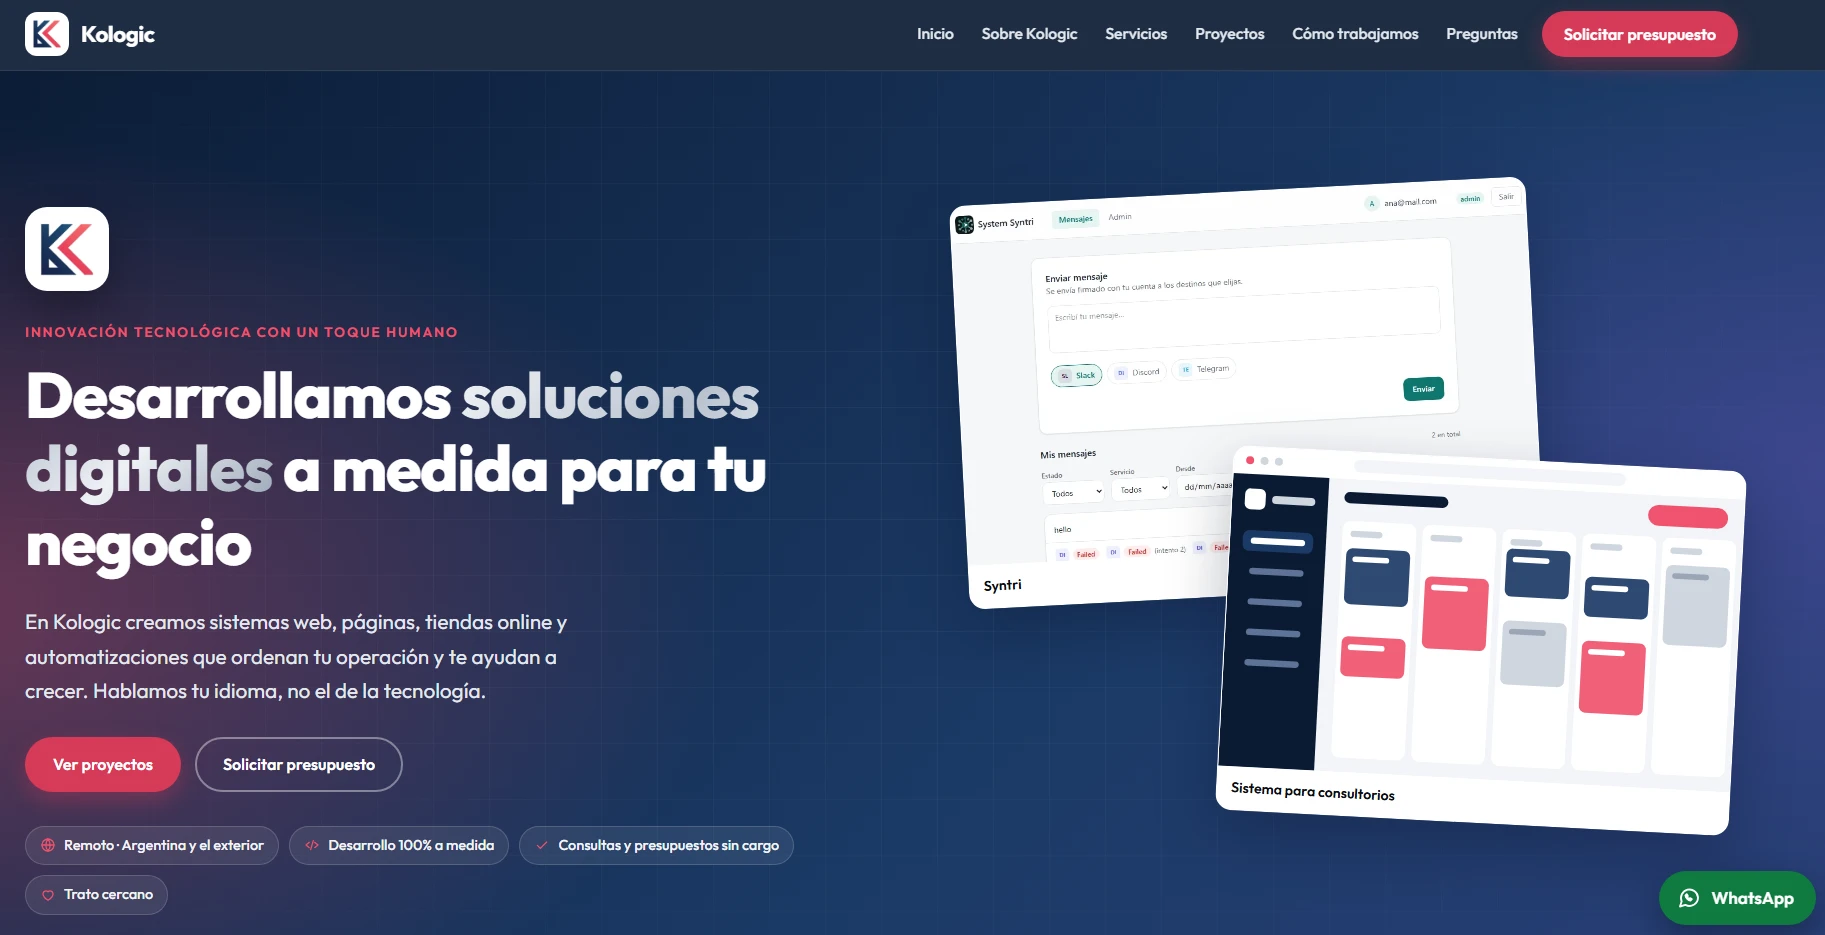
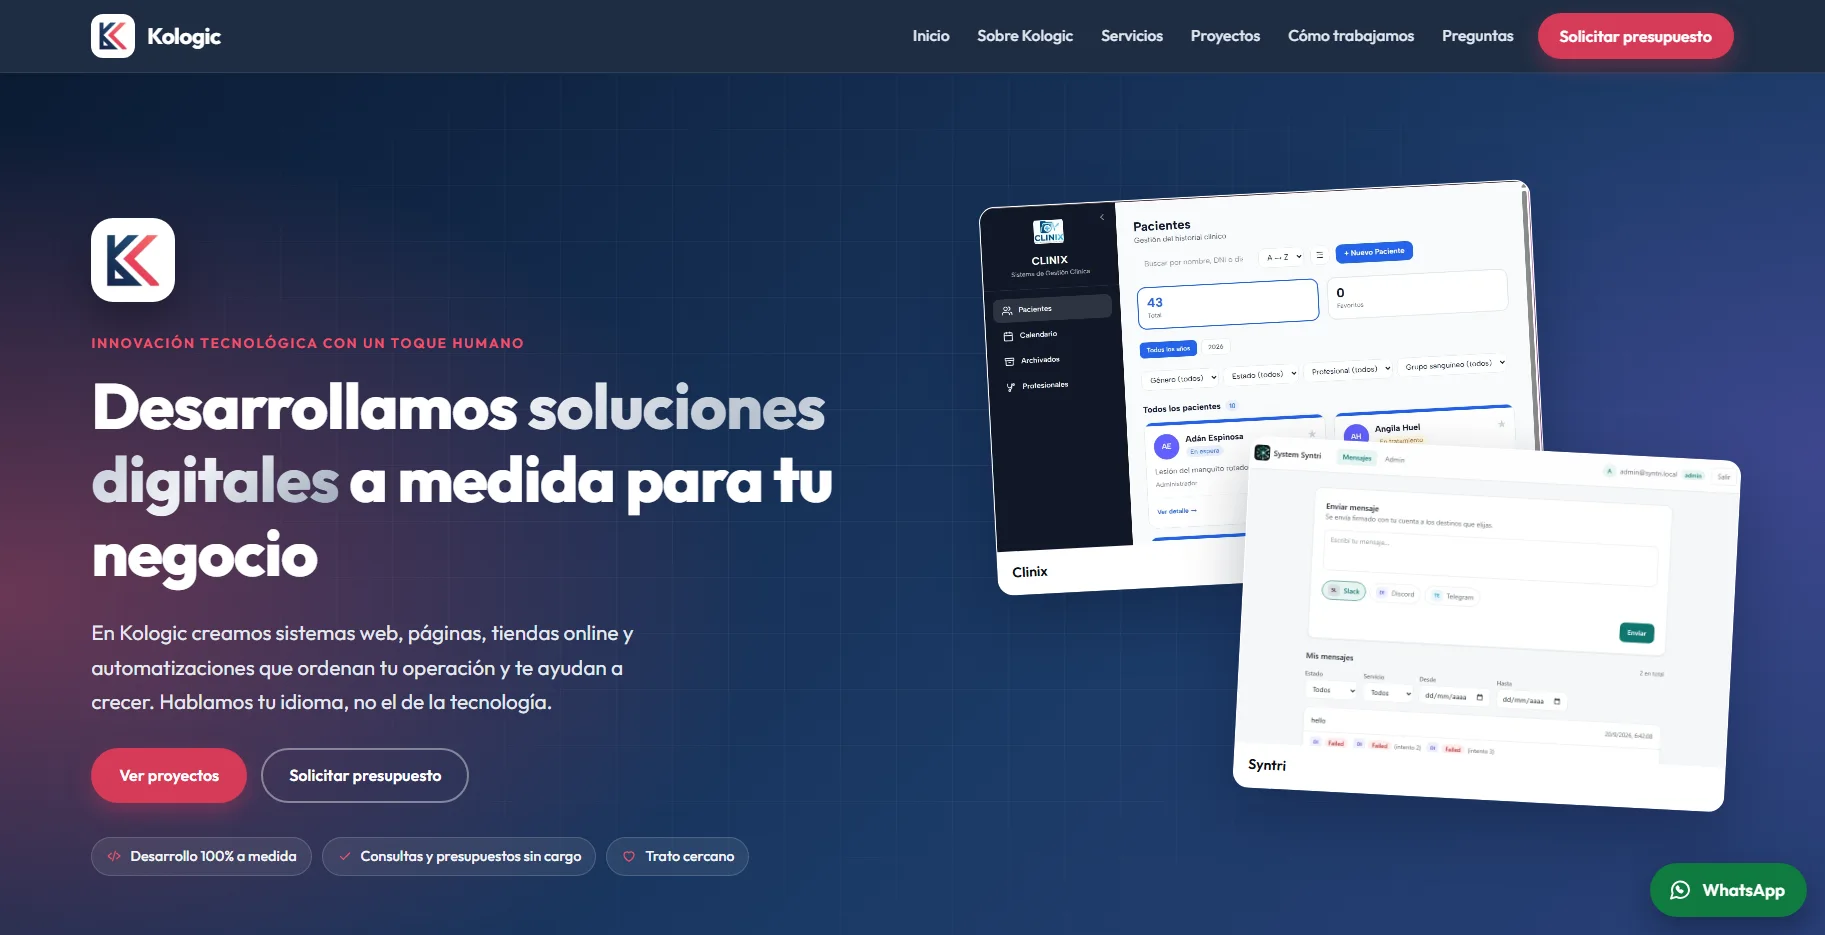
Sumar Sistema Ministerio a Proyectos, nueva captura de Kologic y placeholder sin texto

diff --git a/src/data/content.ts b/src/data/content.ts
@@ -342,6 +342,32 @@ export const projects: Project[] = [
     image: "/projects/kologic.webp",
   },
   {
+    name: "Sistema Ministerio",
+    description:
+      "Plataforma web donde las escuelas de Misiones consultan y descargan recursos educativos (talleres y normativas) del Ministerio de Educación, sin pedirlos de a uno.",
+    highlights: [
+      "Catálogo organizado por nivel, categoría y taller, con archivos o enlaces como recursos, y normativas",
+      "Las instituciones descargan sin iniciar sesión: solo completan cargo, localidad e institución",
+      "Panel de administración con acceso autenticado para gestionar catálogo, normativas, padrón y configuración",
+      "Dashboard con métricas de descargas",
+      "Tests unitarios, de extremo a extremo y de base de datos",
+    ],
+    stack: [
+      "React 19",
+      "TypeScript",
+      "Vite",
+      "Tailwind CSS",
+      "React Router",
+      "React Query",
+      "Supabase",
+      "PostgreSQL",
+      "Vitest",
+      "Playwright",
+    ],
+    status: "En desarrollo",
+    repo: "https://github.com/emilykohler12/sistema_ministerio",
+  },
+  {
     name: "Hidden Memories",
     description:
       "Videojuego 2D de aventura hecho en Unity: una chica atraviesa un mundo acuático superando obstáculos para avanzar, recolectando monedas y cofres.",

diff --git a/src/components/ProjectImage.tsx b/src/components/ProjectImage.tsx
@@ -34,9 +34,6 @@ export default function ProjectImage({
       <span className="font-serif text-2xl font-bold text-cream-soft/40 sm:text-3xl">
         {name}
       </span>
-      <span className="rounded-full bg-black/20 px-3 py-1 text-[10px] font-medium uppercase tracking-wide text-cream-soft/70">
-        Agregá una captura acá
-      </span>
     </div>
   );
 }
